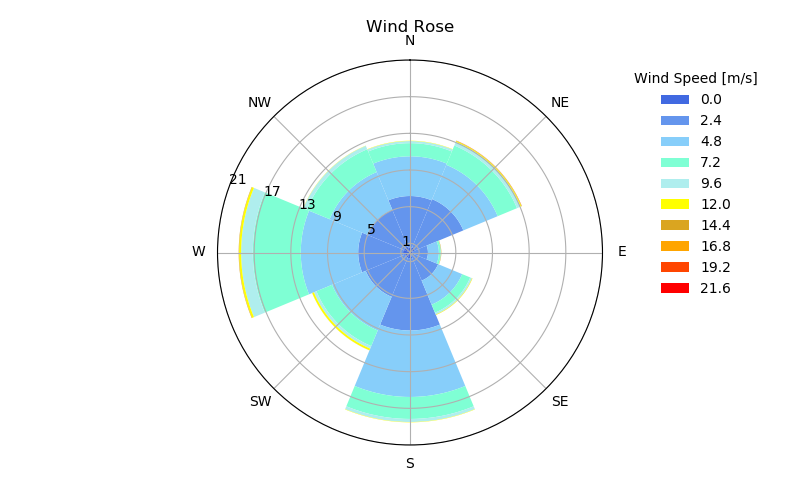
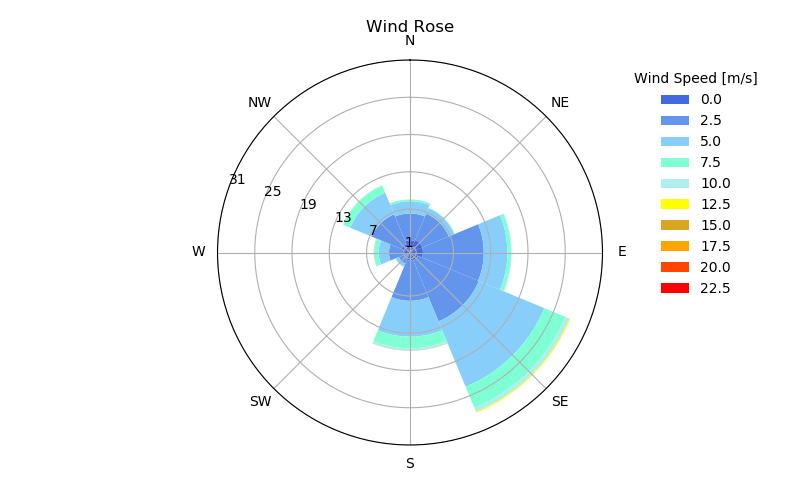
It's Working!!!!

diff --git a/ladybugvizzz/ladybugvizzzapp/googleMap.html b/ladybugvizzz/ladybugvizzzapp/googleMap.html
@@ -1,0 +1,100 @@
+<html>
+<head>
+<meta name="viewport" content="initial-scale=1.0, user-scalable=no" />
+<meta http-equiv="content-type" content="text/html; charset=UTF-8"/>
+<title>Google Maps - pygmaps </title>
+<script type="text/javascript" src="https://maps.googleapis.com/maps/api/js?libraries=visualization&sensor=true_or_false"></script>
+<script type="text/javascript">
+	function initialize() {
+		var centerlatlng = new google.maps.LatLng(32.776272, -96.796856);
+		var myOptions = {
+			zoom: 9,
+			center: centerlatlng,
+			mapTypeId: google.maps.MapTypeId.ROADMAP
+		};
+		var map = new google.maps.Map(document.getElementById("map_canvas"), myOptions);
+
+var coords = [
+new google.maps.LatLng(32.803219, -96.796856),
+new google.maps.LatLng(32.802809, -96.802423),
+new google.maps.LatLng(32.801593, -96.807820),
+new google.maps.LatLng(32.799607, -96.812885),
+new google.maps.LatLng(32.796913, -96.817461),
+new google.maps.LatLng(32.793590, -96.821412),
+new google.maps.LatLng(32.789742, -96.824616),
+new google.maps.LatLng(32.785485, -96.826975),
+new google.maps.LatLng(32.780947, -96.828420),
+new google.maps.LatLng(32.776268, -96.828905),
+new google.maps.LatLng(32.771589, -96.828417),
+new google.maps.LatLng(32.767052, -96.826969),
+new google.maps.LatLng(32.762796, -96.824607),
+new google.maps.LatLng(32.758949, -96.821402),
+new google.maps.LatLng(32.755628, -96.817452),
+new google.maps.LatLng(32.752934, -96.812876),
+new google.maps.LatLng(32.750950, -96.807814),
+new google.maps.LatLng(32.749734, -96.802420),
+new google.maps.LatLng(32.749325, -96.796856),
+new google.maps.LatLng(32.749734, -96.791292),
+new google.maps.LatLng(32.750950, -96.785898),
+new google.maps.LatLng(32.752934, -96.780836),
+new google.maps.LatLng(32.755628, -96.776260),
+new google.maps.LatLng(32.758949, -96.772310),
+new google.maps.LatLng(32.762796, -96.769105),
+new google.maps.LatLng(32.767052, -96.766743),
+new google.maps.LatLng(32.771589, -96.765295),
+new google.maps.LatLng(32.776268, -96.764807),
+new google.maps.LatLng(32.780947, -96.765292),
+new google.maps.LatLng(32.785485, -96.766736),
+new google.maps.LatLng(32.789742, -96.769096),
+new google.maps.LatLng(32.793590, -96.772300),
+new google.maps.LatLng(32.796913, -96.776250),
+new google.maps.LatLng(32.799607, -96.780827),
+new google.maps.LatLng(32.801593, -96.785891),
+new google.maps.LatLng(32.802809, -96.791289),
+];
+
+var polygon = new google.maps.Polygon({
+clickable: false,
+geodesic: true,
+fillColor: "#000000",
+fillOpacity: 0.500000,
+paths: coords,
+strokeColor: "#000000",
+strokeOpacity: 1.000000,
+strokeWeight: 1
+});
+
+polygon.setMap(map);
+
+
+var heatmap_points = [
+new google.maps.LatLng(32.850000, -96.850000),
+new google.maps.LatLng(32.680000, -96.870000),
+new google.maps.LatLng(32.970000, -96.830000),
+new google.maps.LatLng(32.900000, -97.020000),
+new google.maps.LatLng(32.980000, -97.320000),
+new google.maps.LatLng(32.820000, -97.370000),
+new google.maps.LatLng(32.820000, -97.370000),
+new google.maps.LatLng(32.770000, -97.450000),
+new google.maps.LatLng(33.070000, -96.070000),
+new google.maps.LatLng(33.720000, -96.670000),
+];
+
+var pointArray = new google.maps.MVCArray(heatmap_points);
+var heatmap;
+heatmap = new google.maps.visualization.HeatmapLayer({
+
+data: pointArray
+});
+heatmap.setMap(map);
+heatmap.set('threshold', 10);
+heatmap.set('radius', 10);
+heatmap.set('opacity', 1.000000);
+heatmap.set('dissipating', true);
+	}
+</script>
+</head>
+<body style="margin:0px; padding:0px;" onload="initialize()">
+	<div id="map_canvas" style="width: 100%; height: 100%;"></div>
+</body>
+</html>

diff --git a/ladybugvizzz/ladybugvizzzapp/vizzz/templates/index.html b/ladybugvizzz/ladybugvizzzapp/vizzz/templates/index.html
@@ -27,7 +27,8 @@
                       {{ form }}
                       <input type="Submit" value="Update">
                       <br>
-                      <img src="{{ cityPicUrl }}">
+                      <img src="{{ heatPicUrl }}" width="80%">
+                      <img src="{{ windPicUrl }}">
                   </form>
                 </div>
             </div>

diff --git a/ladybugvizzz/ladybugvizzzapp/vizzz/assets/getWeatherData.py b/ladybugvizzz/ladybugvizzzapp/vizzz/assets/getWeatherData.py
@@ -4,10 +4,11 @@ This module contains a function for returning a dictionary for weather data list
 """
 from __locateEPW import locateEPW
 from __extractEPW import extractEPWdataset
-
+import gmplot
+from geopy.geocoders import Nominatim
 def returnWeatherDataDict(locationString=None,longitude=None,latitude=None,downloadDirectory=None,
                           searchRadius=50, searchMultiplier=5, recursionLimit=5,
-                          numberOfResults=10,searchDataSelection=0 ):
+                          numberOfResults=10,searchDataSelection=0,plotGoogleMapPath=None ):
     """
     Return a dictionary containing weather data lists of 8760 each based on search parameters. The search parameters
     can be a generic address specified through locationString or longitude and latitude values. Either of those options
@@ -67,11 +68,50 @@ def returnWeatherDataDict(locationString=None,longitude=None,latitude=None,downl
     # Get weather data
     weatherDataDict = extractEPWdataset(climData,fileDownloadDirectory=downloadDirectory)
 
+    #If a path is provided, then write a google map too!
+    if plotGoogleMapPath:
+        if locationString:
+            geolocator = Nominatim()
+            location = geolocator.geocode(locationString,timeout=10)
+            try:
+                latitude,longitude=location.latitude,location.longitude
+            except AttributeError:
+                raise Exception("No geographical locations were identified for %s. A more specific search"
+                                " with zipcodes and similar identifying information will be more helpful."%locationString)
+        # for val in x:
+
+
+        lats =[]
+        longs =[]
+        distances = []
+        for val in x:
+            lats.append(val.climateDataClass.latitude)
+            longs.append(val.climateDataClass.longitude)
+            distances.append(val.distance)
+
+        distanceDict = ((300,9),(600,7),(900,5))
+
+        minDistance = min(distances)
+
+        scaling=None
+        for dist,scale in distanceDict:
+            if minDistance < dist:
+                scaling=scale
+                break
+        if not scaling:
+            scaling=5
+
+        gmap = gmplot.GoogleMapPlotter(latitude, longitude, scaling)
+        gmap.circle(latitude,longitude,3000,'black')
+        gmap.heatmap(lats, longs,opacity=1)
+        gmap.draw(plotGoogleMapPath)
+
     return weatherDataDict
 if __name__ == "__main__":
+    from utilities.randomCity import returnRandomCity
+    # y= returnWeatherDataDict(latitude=32.77,longitude=-96.79,plotGoogleMapPath=True)
+    # print(y['windSpeed'])
 
-    y= returnWeatherDataDict(latitude=32.77,longitude=-96.79)
+    y=returnWeatherDataDict(locationString="Dallas Texas USA",plotGoogleMapPath='googleMap.html')
     print(y['windSpeed'])
-
-    y=returnWeatherDataDict(locationString='North Pole')
-    print(y['windSpeed'])
+    print(y['windDirection'])

diff --git a/ladybugvizzz/ladybugvizzzapp/vizzz/views.py b/ladybugvizzz/ladybugvizzzapp/vizzz/views.py
@@ -19,9 +19,25 @@ print rootDir
 import sys
 sys.path.append(rootDir)
 import ladybug
+import utilities
 import getWeatherData
-import __windrose
+import getWeatherPlots
 
+# Variable to track city.
+currentCity = "None"
+
+# Dictonary of full data types.
+dataDict = {"diffuseHorizontalRadiation": ("Diffuse Horizontal Radiation", 'inferno'),
+            'dryBulbTemperature': ("Dry Bulb Temperature", 'magma'),
+            'relativeHumidity': ("Relative Humidity", 'Blues'),
+            'windSpeed': ("Wind Speed", 'Blues'),
+            'globalHorizontalRadiation': ("Global Horizontal Radiation", 'Greens'),
+            'directNormalRadiation': ("Direct Normal Radiation", 'inferno'),
+            'diffuseHorizontalRadiation': ("Diffuse Horizontal Radiation", 'plasma'),
+            'horizontalInfraredRadiationIntensity': ("Horizontal Infrared Radiation Intensity", 'plasma'),
+            'globalHorizontalIlluminance': ("Global Horizontal Illuminance", 'plasma'),
+            'directNormalIlluminance': ("Direct Normal Illuminance", 'Reds'),
+            'diffuseHorizontalIlluminance': ("Diffuse Horizontal Illuminance", 'plasma')}
 
 # Create your views here.
 class HomePageView(TemplateView):
@@ -33,10 +49,21 @@ class HomePageView(TemplateView):
     @csrf_exempt
     def post(self, request, **kwargs):
         cityname = request.POST.get("city_name", default="New York")
+        dataType = request.POST.get("data_type", default="dryBulbTemperature")
+        legColor = request.POST.get("color", default="plasma")
         print "Submitted city: " + cityname
         form = CityForm(request.POST)
-        imgPath = os.getcwd() + '\\vizzz\\static\\windrose.png'
-        windRose = __windrose.returnWindRose(imgPath, cityname)
-        relpath = '\\static\\windrose.png'
+
+        windRosePath = os.getcwd() + '\\vizzz\\static\\windrose.png'
+        windRelpath = '\\static\\windrose.png'
+        heatMapPath = os.getcwd() + '\\vizzz\\static\\heatmap.png'
+        heatRelpath = '\\static\\heatmap.png'
+
+        if currentCity != cityname:
+            y = getWeatherPlots.returnWeatherDataDict(locationString="Dallas Texas USA", plotGoogleMapPath='googleMap.html')
+            z = getWeatherPlots.returnWindRose(y,divisions=None,filepath=windRosePath)
+        a = getWeatherPlots.returnHeatMap(y,filepath=heatMapPath,dataType=dataType,dataLabel=dataDict[dataType][0], colormap=legColor)
+
+
         #cityPicUrl = getWeatherData.returnWeatherDataDict(cityname)
-        return render(request, 'index.html', {'form': form, 'cityPicUrl': relpath})
+        return render(request, 'index.html', {'form': form, 'windPicUrl': windRelpath, 'heatPicUrl': heatRelpath})

diff --git a/ladybugvizzz/ladybugvizzzapp/vizzz/assets/getWeatherPlots.py b/ladybugvizzz/ladybugvizzzapp/vizzz/assets/getWeatherPlots.py
@@ -1,18 +1,12 @@
-"""
-LadybugVizz | Wind rose chart
-"""
-
 
 from __future__ import division
 import matplotlib
-#matplotlib.use('Qt4Agg')
 
 import numpy as np
 import matplotlib.pyplot as plt
 from getWeatherData import returnWeatherDataDict
 
-
-def returnWindRose(imgPath, locationString=None, divisions=None, Longitude=None, Latitude=None):
+def returnWindRose(weatherDataDict,divisions=None,filepath='windrose.png'):
     """
 
     :param filepath: file path to save (required)
@@ -23,13 +17,11 @@ def returnWindRose(imgPath, locationString=None, divisions=None, Longitude=None,
     :return:
     """
 
-    assert locationString or ((Longitude is not None) and (Latitude is not None)), "either locationString or Longitude and Latitude are required."
+
 
     # call getWeatherData and get wind-speed and direction
-    windData = returnWeatherDataDict(locationString=locationString,longitude=Longitude,latitude=Latitude)
-    windSpeed = windData["windSpeed"]
-    windDirection = windData["windDirection"]
-
+    windSpeed = weatherDataDict["windSpeed"]
+    windDirection = weatherDataDict["windDirection"]
     # define Calm (0 m/s) to filter it out later, and max-speed to create legend
     Calm = windSpeed.count(0)
     maxWind = int(max(windSpeed))
@@ -183,10 +175,33 @@ def returnWindRose(imgPath, locationString=None, divisions=None, Longitude=None,
     #     bar.set_alpha(0.5)
 
 
+
     fig = matplotlib.pyplot.gcf()
     fig.set_size_inches(8,5)
-    #plt.draw()
-    #plt.savefig('\\static\\windrose.png')
-    fig.savefig(imgPath)
-    plt.clf()
-    return True
+    fig.savefig(filepath)
+    fig.clf()
+    return filepath
+
+def returnHeatMap(weatherDataDict,filepath,dataType,dataLabel,colormap='plasma'):
+
+    dataSet= tuple(float(i) for i in weatherDataDict[dataType])
+
+    valList = []
+    counter = 0
+    for hour in range(365):
+        newList = []
+        for date in range(24):
+            newList.append(dataSet[counter])
+            counter+=1
+        valList.append(newList)
+    y = np.transpose(valList)
+    plt.imshow(y, interpolation = "nearest", aspect = 4, cmap = colormap)
+    plt.colorbar(orientation='horizontal')
+    plt.title(dataLabel)
+    plt.xlabel('Days')
+    plt.ylabel('Hours')
+    fig = matplotlib.pyplot.gcf()
+    fig.set_size_inches(8,4)
+    fig.savefig(filepath)
+    fig.clf()
+    return filepath

diff --git a/ladybugvizzz/ladybugvizzzapp/vizzz/assets/utilities/randomCity.py b/ladybugvizzz/ladybugvizzzapp/vizzz/assets/utilities/randomCity.py
@@ -1,0 +1,24 @@
+import random
+
+def returnRandomCity(beginsWith=None,endsWith=None):
+    """
+    Return a random city from the list of cities in the csv file at __epwLocations/largeCities.csv
+    :param beginsWith: Filter cities starting with these letters.
+    :param endsWith:  Filter cities ending with these letters.
+    :return:
+    """
+    cityList = []
+    with open('__epwLocations/largeCities.csv') as cityData:
+        for lines in cityData:
+            if lines.strip():
+                cityList.append(lines.strip())
+
+    if isinstance(beginsWith,basestring):
+        cityList = [val for val in cityList if val.lower().startswith(beginsWith.lower())]
+    if isinstance(endsWith,basestring):
+        cityList = [val for val in cityList if val.lower().endswith(endsWith.lower())]
+
+    if not cityList:
+        raise Exception("No cities were found with the matching criteria.")
+
+    return random.choice(cityList)

diff --git a/ladybugvizzz/ladybugvizzzapp/vizzz/assets/utilities/colors.py b/ladybugvizzz/ladybugvizzzapp/vizzz/assets/utilities/colors.py
@@ -1,0 +1,30 @@
+from __future__ import print_function
+
+
+
+plasma='plasma'
+inferno='inferno'
+magma='magma'
+greys='Greys'
+purples='Purples'
+blues='Blues'
+greens='Greens'
+oranges='Oranges'
+reds='Reds'
+yellowOrangeBrown='YlOrBr'
+yellowOrangeRed='YlOrRd'
+orangeRed='OrRd'
+purpleRed='PuRd'
+redPurple='RdPu'
+bluePurple='BuPu'
+greenBlue='GnBu'
+purpleBlue='PuBu'
+yellowGreenBlue='YlGnBu'
+purpleBlueGreen='PuBuGn'
+blueGreen='BuGn'
+yellowGreen='YlGn'
+
+colorList=[plasma, inferno, magma, greys, purples, blues, greens, oranges, reds, yellowOrangeBrown,
+             yellowOrangeRed, orangeRed, purpleRed, redPurple, bluePurple, greenBlue, yellowGreenBlue, purpleBlueGreen,
+             blueGreen, yellowGreen]
+

diff --git a/heatMaps.py b/heatMaps.py
@@ -4,8 +4,6 @@ matplotlib.use("Qt4Agg")
 import matplotlib.pyplot as plt
 import numpy as np
 import os
-from utilities.colors import colorList
-from utilities import colors
 
 """
     At present the following outputs are supported: dryBulbTemperature, dewPointTemperature, relativeHumidity, windSpeed,
